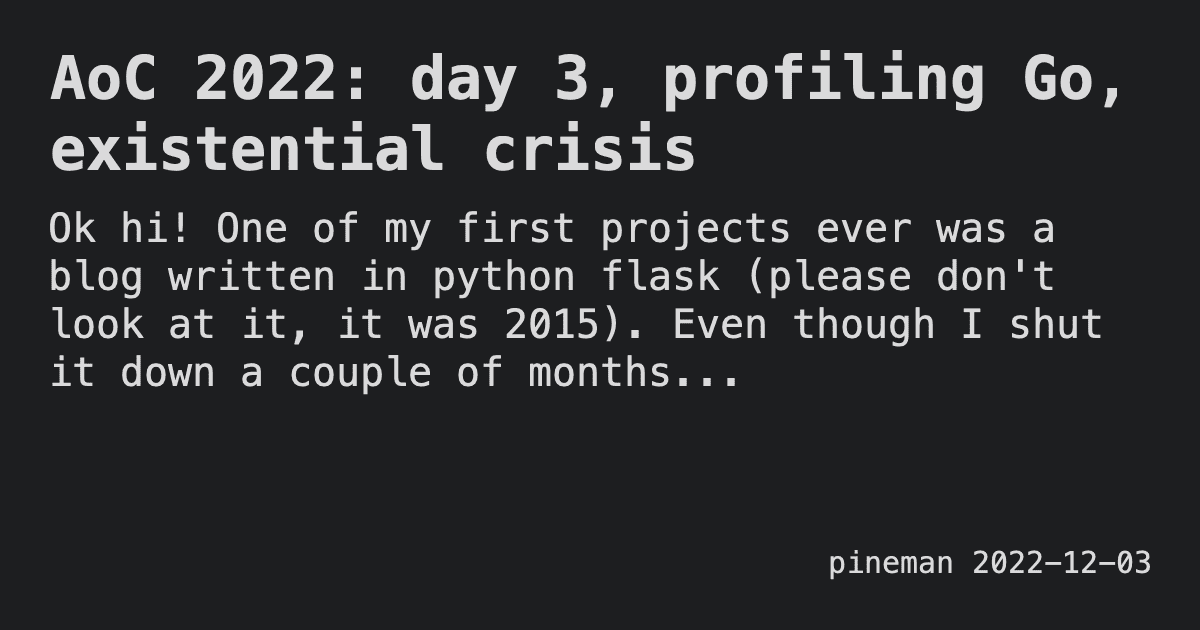
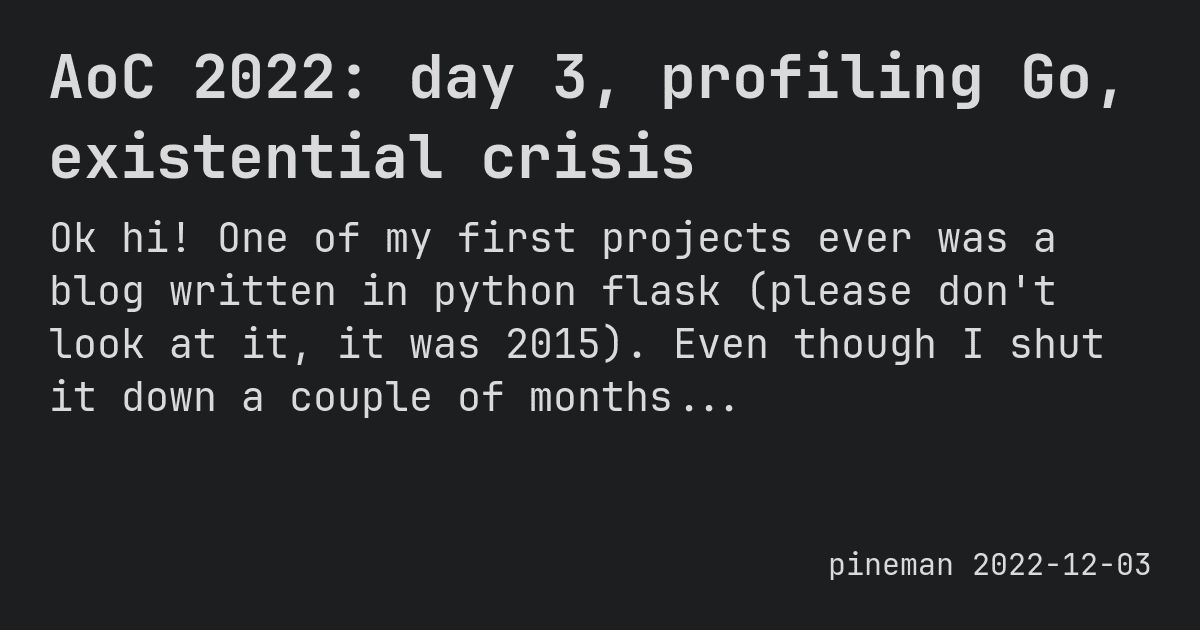
link previews docker image

diff --git a/docs/links.html b/docs/links.html
@@ -32,8 +32,8 @@
 <meta property="article:tag" content="engineering" />
 
   <meta property="og:url" content="https://pineman.github.io/links.html" />
-  <meta property="article:published_time" content="2026-10-28T22:18:14+00:00" />
-  <meta property="article:modified_time" content="2026-10-28T22:18:14+00:00" />
+  <meta property="article:published_time" content="2026-10-29T22:14:53+00:00" />
+  <meta property="article:modified_time" content="2026-10-29T22:14:53+00:00" />
   <title>What I read</title>
   <meta property="og:title" content="What I read" />
   <meta name="description" content="What I read" />
@@ -48,6 +48,8 @@
   <h1>Some of what I read on the internets</h1>
   <h2 class="links-month">October 2026</h2>
   <ul>
+    <li><a href="https://borretti.me/article/we-wont-just-hang-out">https://borretti.me/article/we-wont-just-hang-out</a></li>
+    <li><a href="https://felixrieseberg.com/hunger-beats-tenure-advice-for-junior-engineers/">https://felixrieseberg.com/hunger-beats-tenure-advice-for-junior-engineers/</a></li>
     <li><a href="https://www.seangoedecke.com/getting-good-at-ai-takes-time-and-practice/">https://www.seangoedecke.com/getting-good-at-ai-takes-time-and-practice/</a></li>
     <li><a href="https://www.anthropic.com/research/agents-judgment-calls">https://www.anthropic.com/research/agents-judgment-calls</a></li>
     <li><a href="https://brooker.co.za/blog/2026/10/23/animations.html">https://brooker.co.za/blog/2026/10/23/animations.html</a></li>

diff --git a/link_preview/render.rb b/link_preview/render.rb
@@ -1,0 +1,15 @@
+require "cgi"
+require "vips"
+
+png, title, descr, date = ARGV
+
+# props to https://github.com/ordepdev/ordepdev.github.io/blob/1bee021898a6c2dd06a803c5d739bd753dbe700a/scripts/generate-social-images.js#L26
+title_mask = Vips::Image.text("<b>#{CGI.escapeHTML(title)}</b>", font: "JetBrains Mono 60", width: 1100, dpi: 72)
+descr_mask = Vips::Image.text(CGI.escapeHTML(descr), font: "JetBrains Mono 40", width: 1100, dpi: 72)
+footer_mask = Vips::Image.text("pineman #{date}", font: "JetBrains Mono 30", dpi: 72)
+Vips::Image.black(1200, 630)
+  .insert(title_mask, 50, 50)
+  .insert(descr_mask, 50, 50 + title_mask.height + 40)
+  .insert(footer_mask, 1200 - 50 - footer_mask.width, 630 - 50 - footer_mask.height)
+  .ifthenelse([0xda, 0xda, 0xdb], [0x1d, 0x1e, 0x20], blend: true)
+  .write_to_file(png, palette: true, Q: 80, strip: true)

diff --git a/AGENTS.md b/AGENTS.md
@@ -16,5 +16,5 @@ Static site generator for a personal homepage: Ruby Rake + ERB + pandoc. `Rakefi
 - The build rewrites `notes/links.md`: it fetches titles from Hacker News, YouTube and antirez.com, so it needs network access. It only enriches a line that is a bare link, so it does not fetch a link again after it adds a title.
 - `docs/` is the GitHub Pages root. Generated files in it are committed, so commit them with the source change. `rake clean` only deletes generated files, not the static ones in `docs/`.
 - Pages are written at different depths. In templates, use `site_link(path)` for internal links.
-- Each new post needs a link preview image, made with libvips (`brew install vips`).
+- Each new post needs a link preview image. The build makes it with libvips in a Docker image (`link_preview/`), so Docker must be running.
 - `posts/ideas/` is not built.

diff --git a/notes/links.md b/notes/links.md
@@ -1,4 +1,6 @@
 # October 2026
+* https://borretti.me/article/we-wont-just-hang-out
+* https://felixrieseberg.com/hunger-beats-tenure-advice-for-junior-engineers/
 * https://www.seangoedecke.com/getting-good-at-ai-takes-time-and-practice/
 * https://www.anthropic.com/research/agents-judgment-calls
 * https://brooker.co.za/blog/2026/10/23/animations.html
